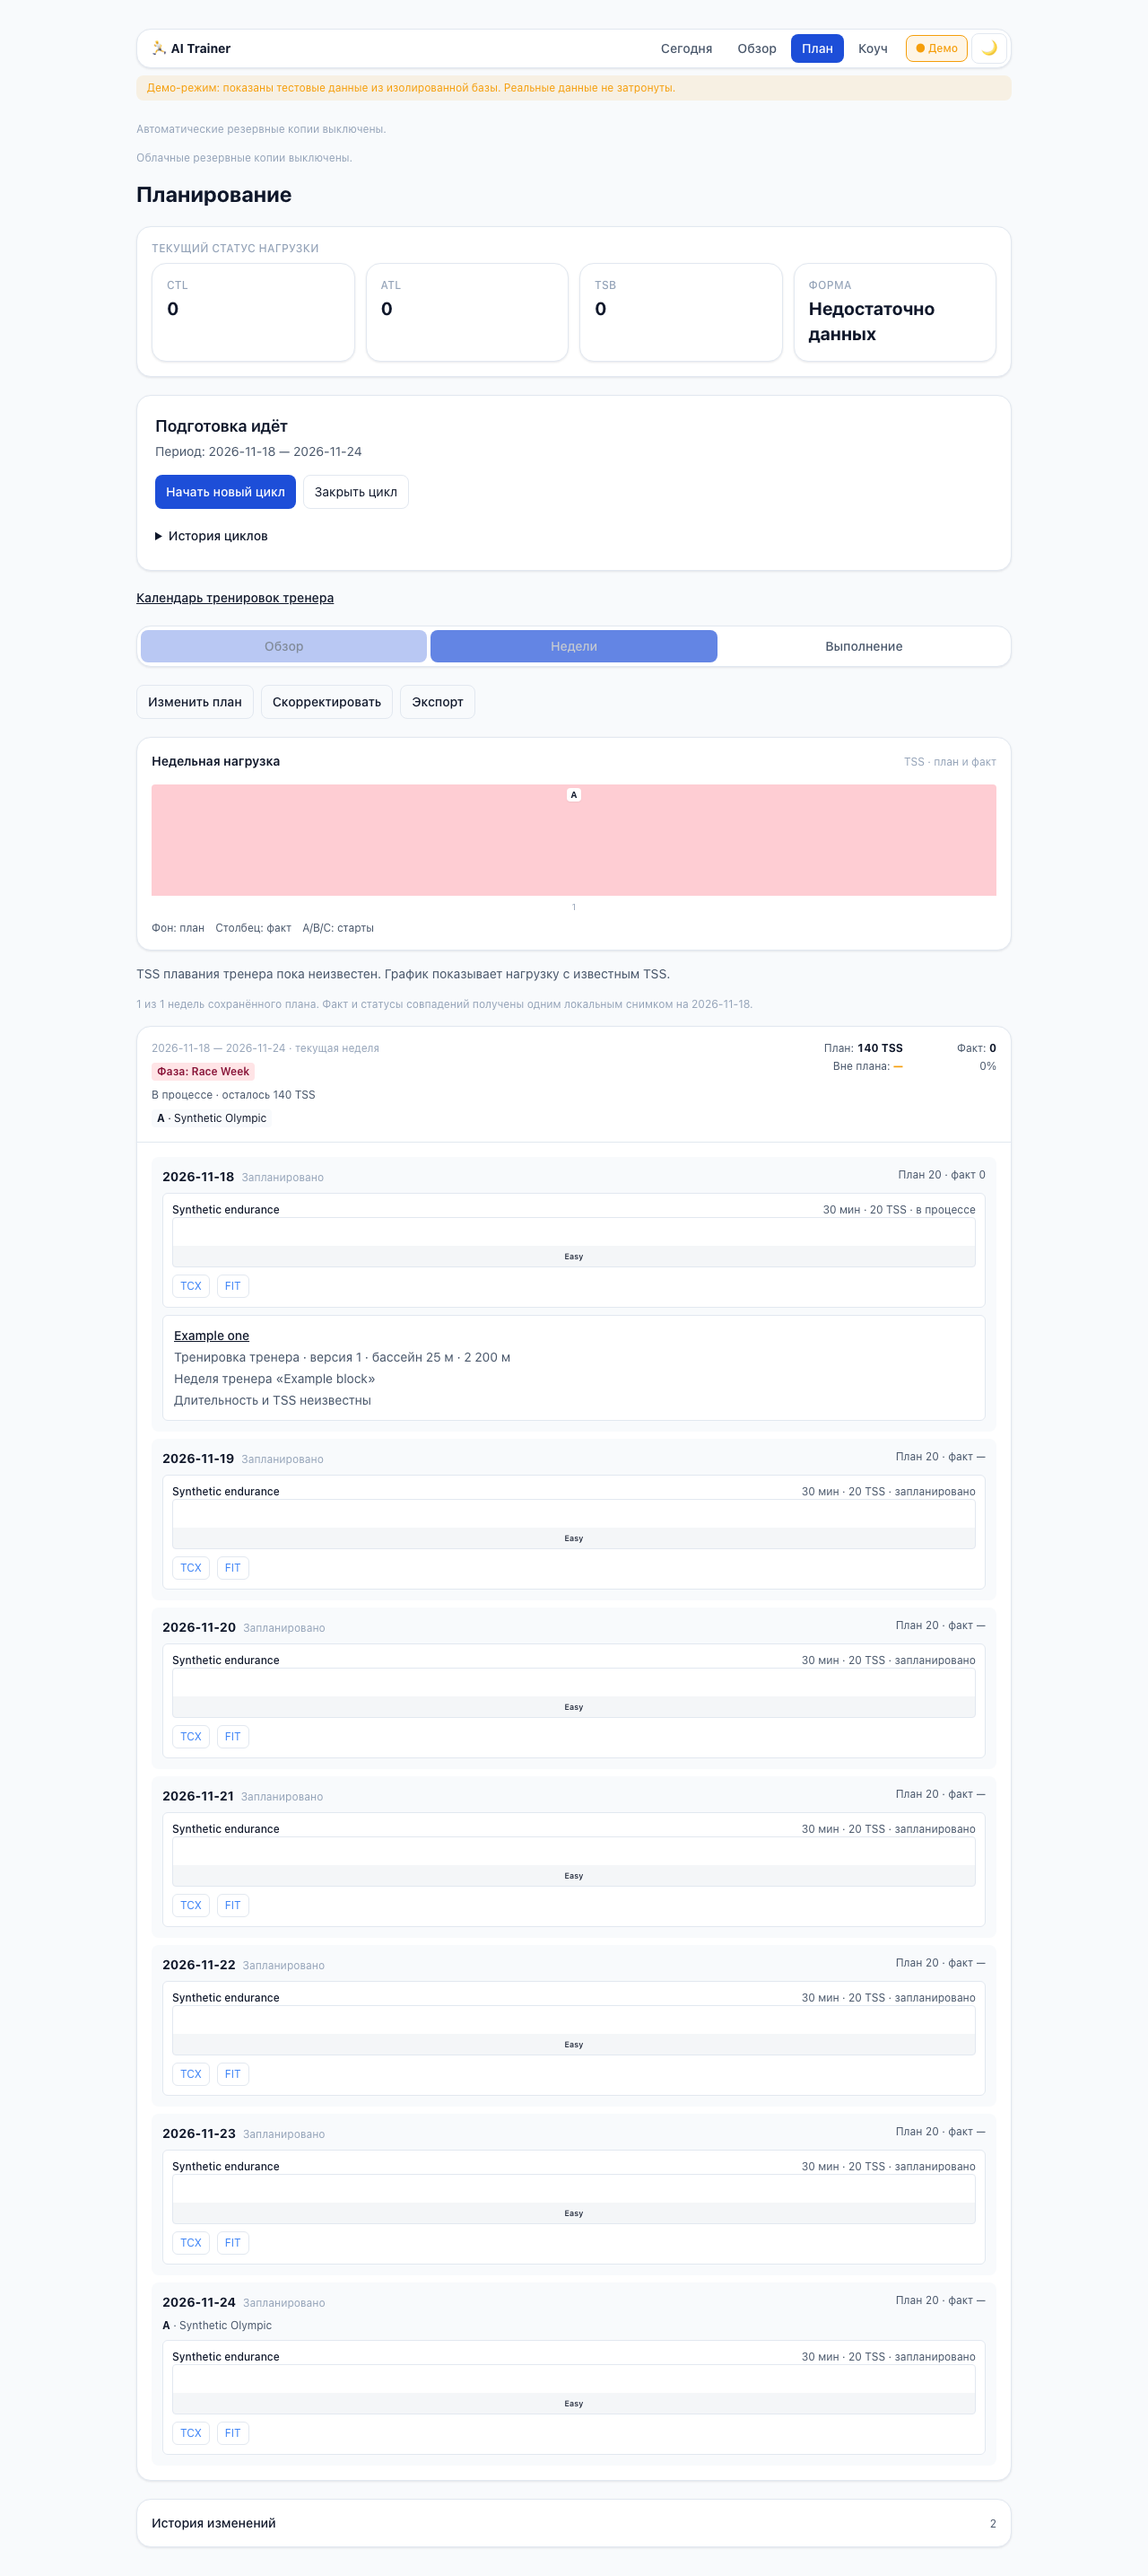
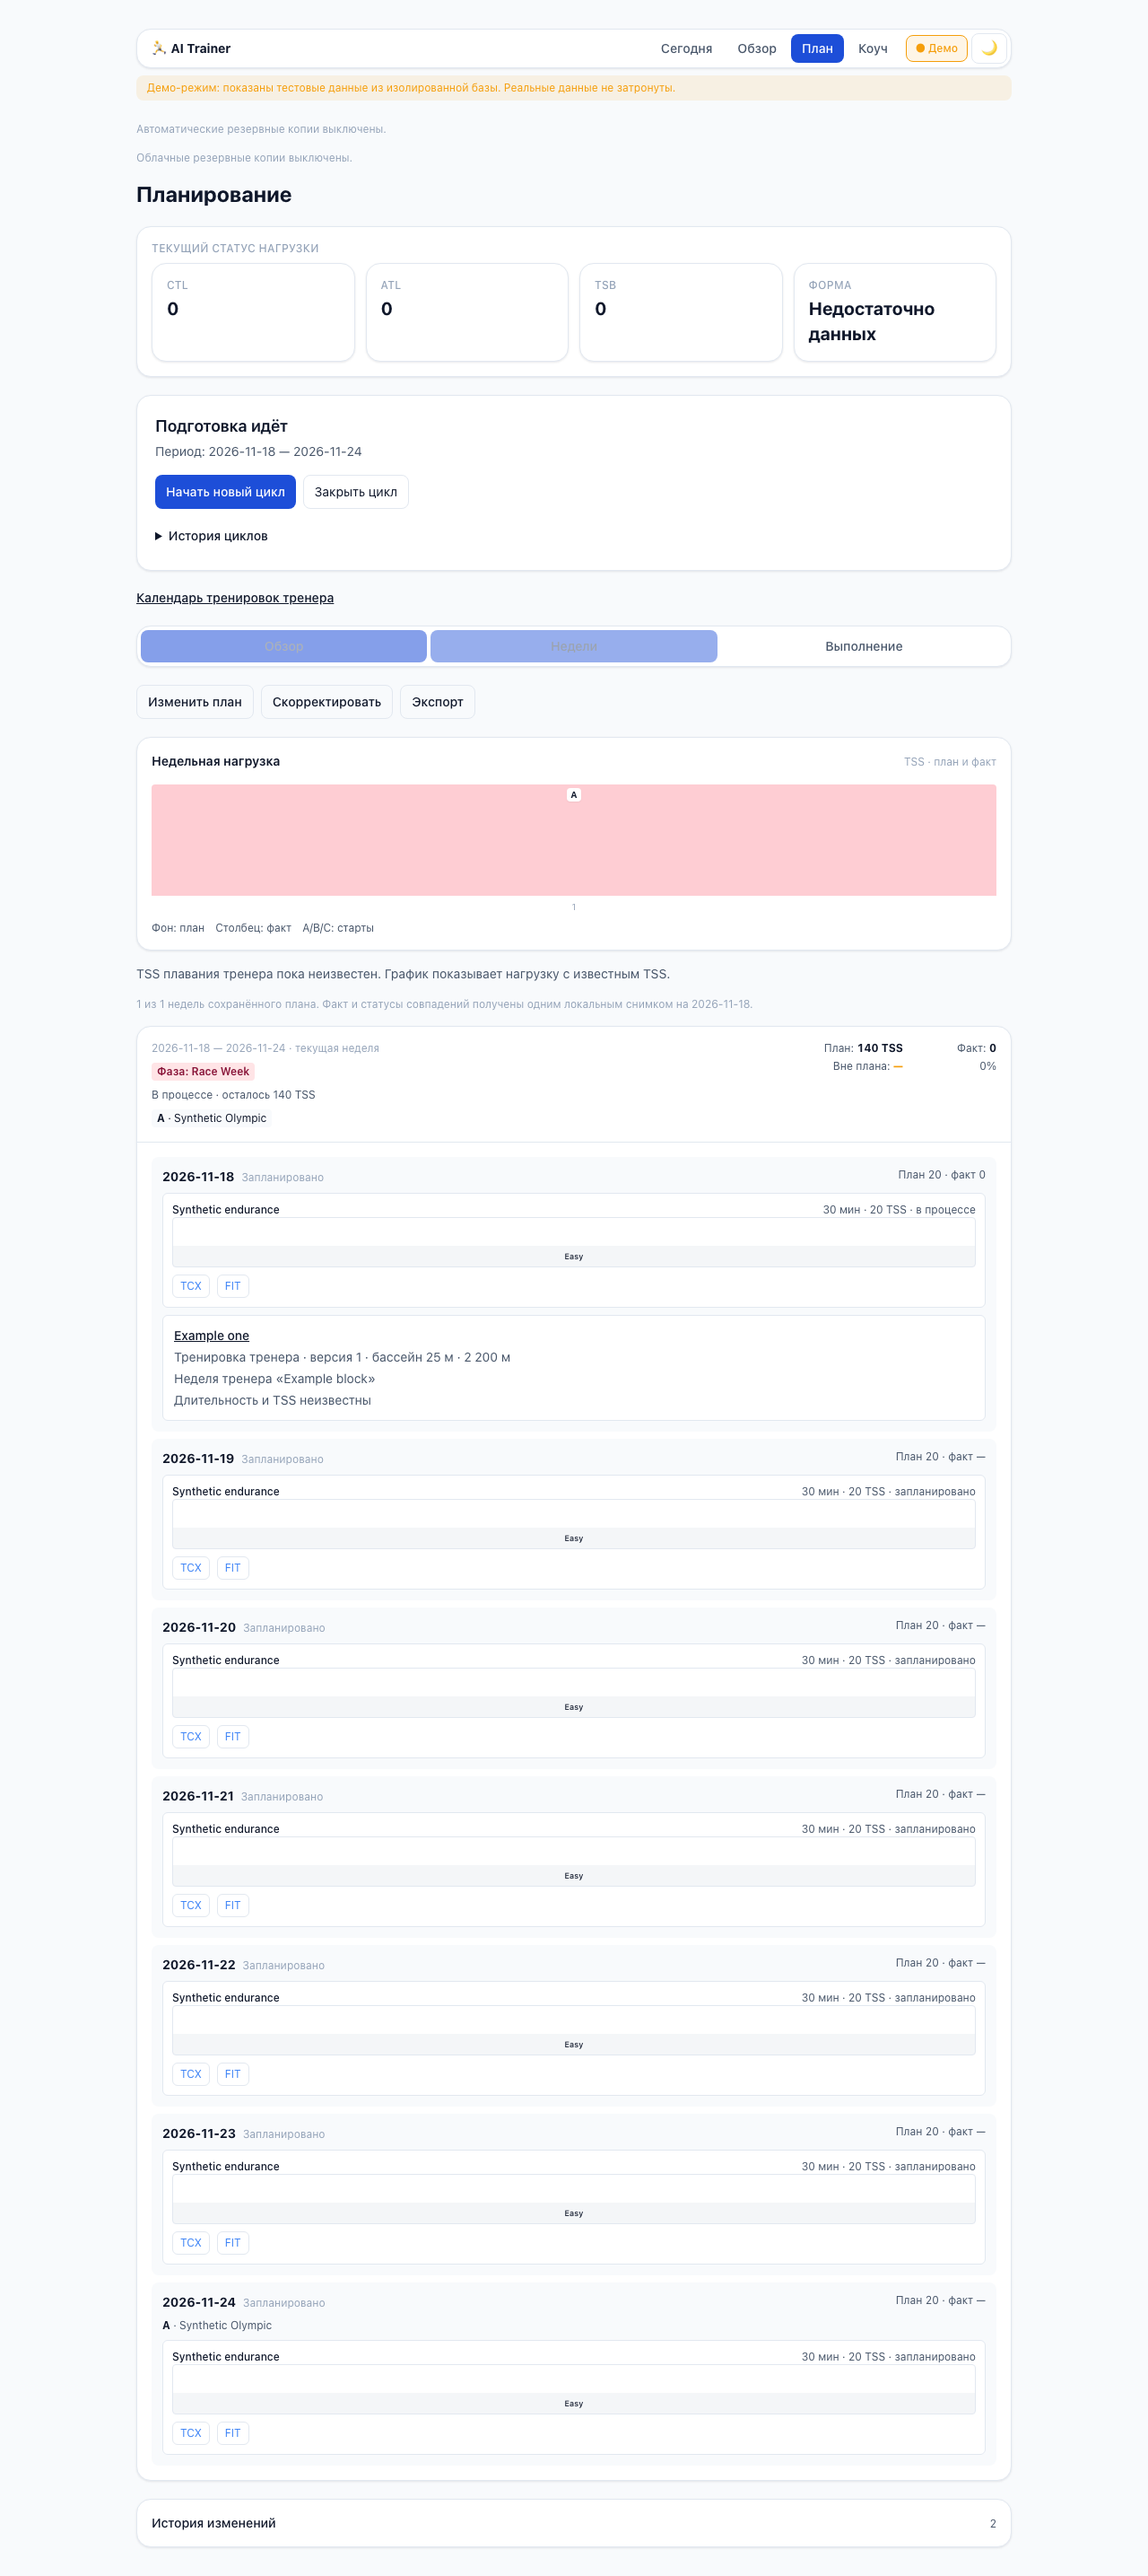
fix: surface new conflicts with authored swim dates

Changed region(s): [[0.125, 0.2171, 0.625, 0.2791]]

diff --git a/web/components/planning/AuthoredSwimRow.tsx b/web/components/planning/AuthoredSwimRow.tsx
@@ -18,6 +18,9 @@ export function AuthoredSwimRow({ row, showDate = false }: { row: SwimCalendarRo
     </p>
     {row.source_week_label ? <p className="text-ink-soft">Неделя тренера «{row.source_week_label}»</p> : null}
     <p className="text-ink-soft">Длительность и TSS неизвестны</p>
+    {row.date_review_reason ? <p className="border-l-2 border-tone-warning pl-2 text-ink">
+      {row.date_review_reason} Проверьте дату в календаре.
+    </p> : null}
     {row.distance_compatibility === "incompatible" ? <p className="text-tone-warning">Проверьте длину отрезков для этого бассейна.</p> : null}
   </div>;
 }

diff --git a/web/lib/types.ts b/web/lib/types.ts
@@ -1890,6 +1890,7 @@ export interface SwimCalendarRow {
   distance_compatibility: "compatible" | "incompatible" | "not_applicable";
   duration_minutes: null;
   tss: null;
+  date_review_reason?: string | null;
 }
 
 export interface SwimCalendarRead {

diff --git a/services/swim_calendar.py b/services/swim_calendar.py
@@ -1,7 +1,7 @@
 """Preview and publish authored swimming changes under selected-cycle CAS."""
 
 from contextlib import contextmanager
-from datetime import datetime, timedelta, timezone
+from datetime import date, datetime, timedelta, timezone
 import json
 import sqlite3
 from uuid import uuid4
@@ -84,10 +84,13 @@ def _project(conn, row: SwimCalendarAssignment) -> dict:
     }
 
 
-def read_calendar(db: Database, *, checkpoint_id: int | None = None) -> dict:
+def read_calendar(
+    db: Database, *, checkpoint_id: int | None = None, include_current_protection: bool = False,
+) -> dict:
     """Read current or explicitly requested cycle-owned checkpoint."""
     with _transaction(db) as conn:
         store = PlanningCycleStore(conn)
+        assess_current = checkpoint_id is None or include_current_protection
         if checkpoint_id is None:
             checkpoint = db._get_current_planning_checkpoint(conn)
             if checkpoint is None:
@@ -101,10 +104,20 @@ def read_calendar(db: Database, *, checkpoint_id: int | None = None) -> dict:
         snapshot = checkpoint.get("goal_plan_snapshot")
         if not isinstance(snapshot, dict):
             raise _error("swim_calendar_corrupt", "Версия цикла повреждена.", 503)
+        assigned = calendar_assignments(snapshot)
+        projected = [_project(conn, row) for row in assigned]
+        if assigned and assess_current:
+            context = read_write_context(conn, allow_inactive=True)
+            if context["checkpoint_id"] == checkpoint_id and context["state"] in {"scheduled", "in_progress"}:
+                upcoming = {row.date for row in assigned if row.date.isoformat() >= context["athlete_day"]}
+                conflicts = _placement_conflicts(conn, owner, snapshot, upcoming)
+                for row, projection in zip(assigned, projected):
+                    if row.date in conflicts:
+                        projection["date_review_reason"] = str(conflicts[row.date])
         return {
             "cycle_id": owner,
             "checkpoint_id": checkpoint_id,
-            "assignments": [_project(conn, row) for row in calendar_assignments(snapshot)],
+            "assignments": projected,
         }
 
 
@@ -146,7 +159,11 @@ def _prepare_assignments(conn, current, before, operation):
     return [replacement if row == entry else row for row in before]
 
 
-def _date_warnings(conn, current, snapshot, changes, after):
+def _placement_conflicts(
+    conn: sqlite3.Connection, cycle_id: str, snapshot: dict, dates: set[date],
+) -> dict[date, PlanningBuildPreviewError]:
+    if not dates:
+        return {}
     known_cycles = {row[0] for row in conn.execute("SELECT id FROM planning_cycles")}
     available = (snapshot.get("constraint_summary") or {}).get("available_day_indices")
     sport_rules = snapshot.get("allowed_sports_by_day") or {}
@@ -155,34 +172,49 @@ def _date_warnings(conn, current, snapshot, changes, after):
         stored_day(event["date"]) for event in normalized_events(snapshot.get("events"))
         if event.get("confirmed") is True
     )
-    generated_days = {stored_day(day["date"]): day for day in snapshot["daily_plan"]}
-    warnings = []
-    for old, new in changes:
-        if any(row and row.date.isoformat() < current["athlete_day"] for row in (old, new)):
-            raise _error("swim_calendar_past_date", "Прошедшие назначения сохранены в истории.")
-        if new is None:
-            continue
-        day = new.date
+    conflicts = {}
+    for day in dates:
         if available is not None and day.weekday() not in available:
-            raise _error("swim_calendar_unavailable_day", "Этот день отсутствует в доступности плана.")
+            conflicts[day] = _error("swim_calendar_unavailable_day", "Этот день отсутствует в доступности плана.")
+            continue
         sports = sports_allowed_on_day(sport_rules, day)
         if sports is not None and "swim" not in sports:
-            raise _error("swim_calendar_sport_unavailable", "На эту дату плавание исключено настройками плана.")
+            conflicts[day] = _error("swim_calendar_sport_unavailable", "На эту дату плавание исключено настройками плана.")
+            continue
         if day in protected:
-            raise _error("swim_calendar_protected_day", "Дата защищена в текущем цикле.")
+            conflicts[day] = _error("swim_calendar_protected_day", "Дата защищена в текущем цикле.")
+            continue
         constraints = [
             dict(row) for row in conn.execute(
                 "SELECT * FROM coach_constraints WHERE date=? AND status='active'", (day.isoformat(),),
             )
             if row["kind"] in PROTECTIVE_CONSTRAINT_KINDS
         ]
-        scoped = scoped_constraints(constraints, current["cycle_id"], known_cycles)
+        try:
+            scoped = scoped_constraints(constraints, cycle_id, known_cycles)
+        except PlanningBuildPreviewError as exc:
+            conflicts[day] = exc
+            continue
         if any(normalize_constraint_sport(row.get("sport")) in {None, "swim"} for row in scoped):
-            raise _error("swim_calendar_protected_day", "На эту дату действует ограничение на плавание.")
+            conflicts[day] = _error("swim_calendar_protected_day", "На эту дату действует ограничение на плавание.")
+    return conflicts
+
+
+def _date_warnings(conn, current, snapshot, changes, after):
+    affected = {new.date for _old, new in changes if new}
+    conflicts = _placement_conflicts(conn, current["cycle_id"], snapshot, affected)
+    for old, new in changes:
+        if any(row and row.date.isoformat() < current["athlete_day"] for row in (old, new)):
+            raise _error("swim_calendar_past_date", "Прошедшие назначения сохранены в истории.")
+        if new and new.date in conflicts:
+            raise conflicts[new.date]
+    generated_days = {stored_day(day["date"]): day for day in snapshot["daily_plan"]}
+    warnings = []
+    for day in sorted(affected):
         warnings.append({"date": day.isoformat(), "code": "load_uncertain"})
         if generated_days[day]["total_tss"] > 0 or sum(row.date == day for row in after) > 1:
             warnings.append({"date": day.isoformat(), "code": "other_sessions_on_day"})
-    return [dict(pair) for pair in dict.fromkeys(tuple(item.items()) for item in warnings)]
+    return warnings
 
 
 def _retained(conn, preview_id):

diff --git a/tests/e2e/test_swim_calendar_ui.py b/tests/e2e/test_swim_calendar_ui.py
@@ -88,3 +88,7 @@ def test_trainer_workout_confirmation_and_move_appear_in_plan(web_stack, width, 
     review.get_by_role("button", name="Подтвердить изменения календаря", exact=True).click()
     expect(page.get_by_role("status").filter(has_text="Календарь обновлён")).to_be_visible()
     assert page.request.get(f"{base}/api/planning/swim-calendar?demo=1").json()["assignments"] == rows
+    db.save_coach_constraint(date=today.isoformat(), kind="forced_rest", cycle_scope="athlete")
+    page.goto(f"{web_stack.web_base}/planning")
+    page.get_by_role("button", name="Недели", exact=True).click()
+    expect(page.get_by_text("На эту дату действует ограничение на плавание.", exact=False)).to_be_visible()

diff --git a/api/planning_service.py b/api/planning_service.py
@@ -2647,7 +2647,7 @@ def week_by_week_plan(db: Database) -> Dict[str, Any]:
     if goal_plan.get("swim_calendar"):
         from services.swim_calendar import read_calendar
         try:
-            assignments = read_calendar(db, checkpoint_id=checkpoint["id"])["assignments"]
+            assignments = read_calendar(db, checkpoint_id=checkpoint["id"], include_current_protection=True)["assignments"]
             authored_calendar = {"authored_swim": {"state": "available", "assignments": assignments}}
         except PlanningBuildPreviewError:
             authored_calendar = {"authored_swim": {"state": "unavailable", "assignments": []}}

diff --git a/api/swim_calendar_contract.py b/api/swim_calendar_contract.py
@@ -21,6 +21,7 @@ class SwimCalendarRow(SwimCalendarAssignment):
     distance_compatibility: Literal["compatible", "incompatible", "not_applicable"]
     duration_minutes: None
     tss: None
+    date_review_reason: str | None = None
 
 
 class SwimCalendarRead(CalendarModel):

diff --git a/docs/swim_calendar_execplan.md b/docs/swim_calendar_execplan.md
@@ -60,6 +60,12 @@ show a workout with unknown load or duration and retain that uncertainty.
   of a later race overlay calculation.
 - **Verified by**: the same synthetic checkpoint gained a 409 refusal after
   including confirmed events through the existing event normalizer.
+- **Observed**: adding a rest constraint after confirmation left the current
+  calendar row looking unchanged even though the date was now restricted.
+- **Inferred**: current reads must use the same date policy as new proposals,
+  while historical reads must keep their prior meaning.
+- **Verified by**: isolated HTTP/service fixture and the current Plan browser
+  check. The new note identifies the date conflict without a checkpoint write.
 
 ## Decision Log
 

diff --git a/docs/swim_calendar_slice_spec.md b/docs/swim_calendar_slice_spec.md
@@ -53,6 +53,9 @@ today under a fresh low-readiness signal, Today suggests reviewing the date.
 The athlete can prepare a move from that assignment in the calendar. The
 suggestion has no inferred intensity, automatic date, or treatment advice.
 It is scoped to the evaluated checkpoint and never a generic rescale proposal.
+When a later constraint conflicts with an existing date, the current calendar
+and Plan weeks show its reason beside the retained assignment. Historical reads
+keep the original assignment and avoid applying current constraints to old dates.
 
 Reuse the weekday/date semantics from #668 if its contract is available on the
 branch. Review baseline found no implementation on main 1fd9d67. Bring in the
